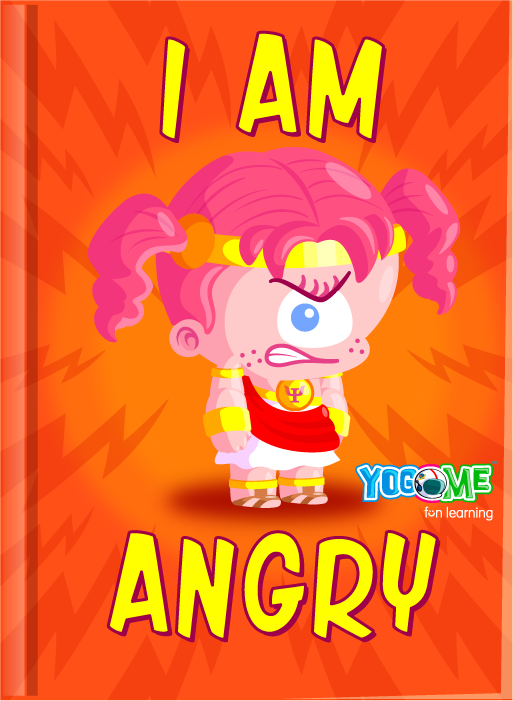
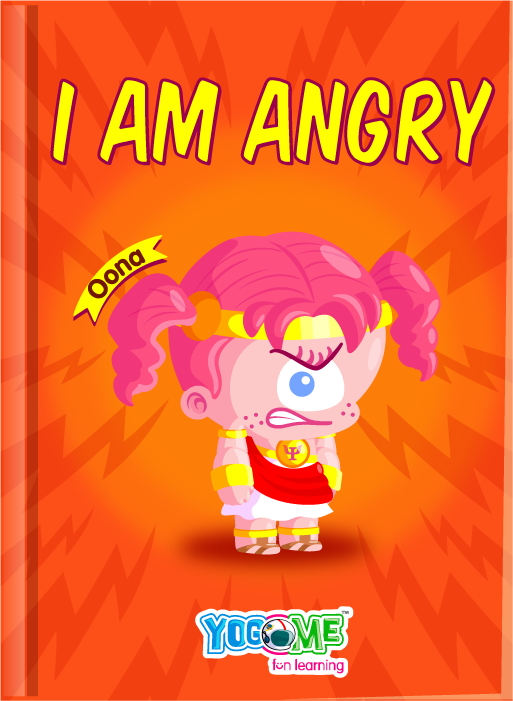
estoy enojada

diff --git a/6/css/magazine.css b/6/css/magazine.css
@@ -417,16 +417,25 @@ body{
     height: 100%;
     width: 100%;
     position:relative;
+    background-repeat: no-repeat;
+    background-size: 100%;
 }
 .userName{
   
-  white-space: nowrap;
   color: black;
-  font-size: 20px;
+  font-size: 16.5px;
   position: absolute;
-  overflow: hidden;
-  top: 43%;
-  left: 48%;
+  top: 39.3%;
+  left: 42%;
+  transform: translate(-50%, -50%);
+}
+.zoomUserName{
+  
+  color: black;
+  font-size: 40px;
+  position: absolute;
+  top: 39.3%;
+  left: 42%;
   transform: translate(-50%, -50%);
 }
 
@@ -599,7 +608,7 @@ body{
 
 
 .magazine .p2{
-    	background-image:url(../bookpages/2.png) !important;
+    	/*background-image:url(../bookpages/2.png) !important;*/
 
 }
 

diff --git a/6/index.html b/6/index.html
@@ -407,7 +407,8 @@ function loadApp() {
 			},
 
 			zoomIn: function () {
-
+                
+                $(".userName").addClass("zoomUserName")
 				$('#slider-bar').hide();
 				$('.made').hide();
 				$('.magazine').removeClass('animated').addClass('zoom-in');
@@ -427,7 +428,8 @@ function loadApp() {
 			},
 
 			zoomOut: function () {
-
+                
+                $(".userName").removeClass("zoomUserName")
 				$('#slider-bar').fadeIn();
 				$('.exit-message').hide();
 				$('.made').fadeIn();

diff --git a/6/bookpages/2.html b/6/bookpages/2.html
@@ -13,6 +13,6 @@
             Este es mi texto.
     </div>  
 -->
-<img class="book-img" src="bookpages/2.png">    
+<img class="book-img">    
     </body>
 </html>
